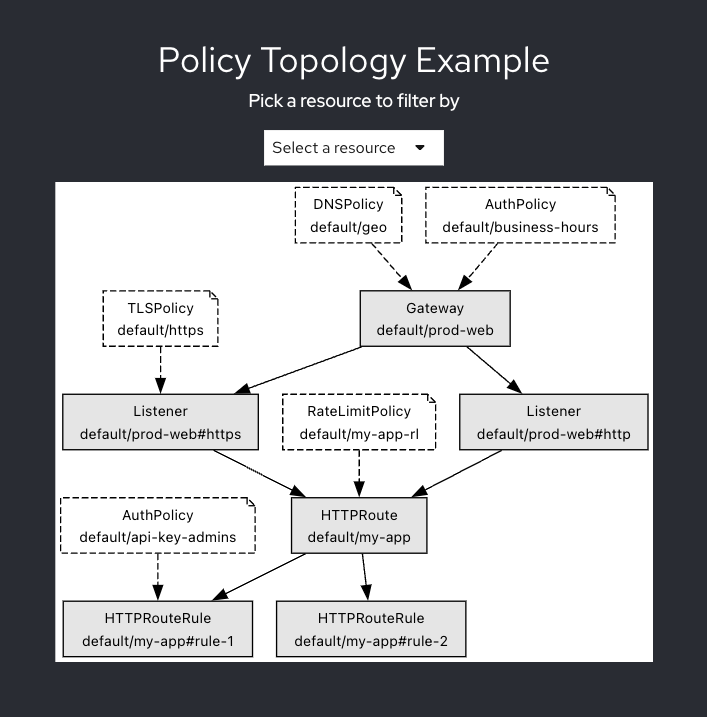
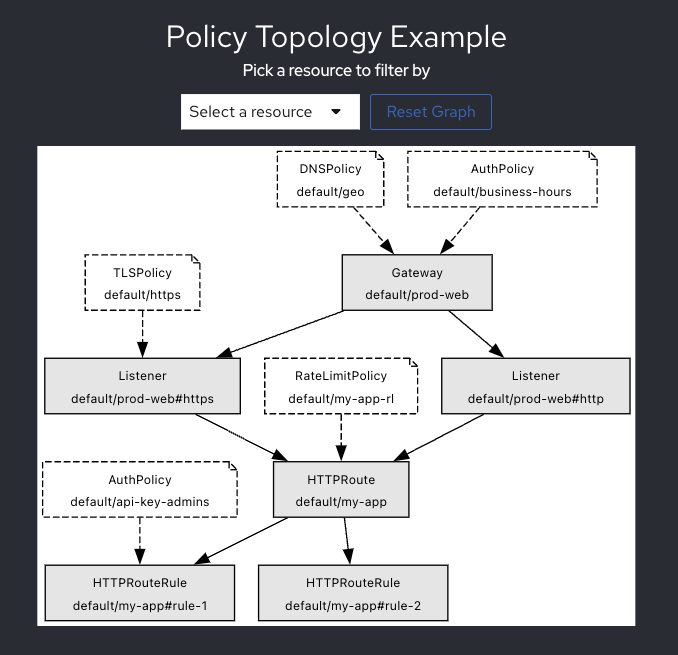
Clickable nodes for filtering

Changed region(s): [[0.031, 0.0305, 0.9602, 0.9771], [0.1239, 0.3969, 0.3097, 0.4885]]

diff --git a/src/PolicyTopology.js b/src/PolicyTopology.js
@@ -2,7 +2,8 @@ import React, { useEffect, useRef, useCallback, useState } from 'react';
 import { instance } from '@viz-js/viz';
 import graphlib from 'graphlib';
 import * as dot from 'graphlib-dot';
-import { Dropdown, DropdownToggle, DropdownItem, Title } from '@patternfly/react-core';
+import { Dropdown, DropdownToggle, DropdownItem, Title, Button } from '@patternfly/react-core';
+import './PolicyTopology.css'; // Ensure you import the CSS file
 
 const PolicyTopology = ({ dotString }) => {
   const containerRef = useRef(null);
@@ -43,7 +44,13 @@ const PolicyTopology = ({ dotString }) => {
       return;
     }
 
-    const selectedNodeLabel = graph.node(nodeId).label;
+    const selectedNode = graph.node(nodeId);
+    if (!selectedNode) {
+      console.error(`Selected node not found in graph. nodeId: ${nodeId}`);
+      return;
+    }
+
+    const selectedNodeLabel = selectedNode.label;
     setSelectedLabel(selectedNodeLabel);
 
     const filteredGraph = new graphlib.Graph();
@@ -85,14 +92,36 @@ const PolicyTopology = ({ dotString }) => {
     setIsDropdownOpen(isOpen);
   };
 
+  const handleNodeClick = (event) => {
+    const nodeElement = event.target.closest('g.node');
+    if (!nodeElement) {
+      console.error('No node element found');
+      return;
+    }
+    const nodeId = nodeElement.querySelector('title').textContent;
+    console.log(`Node clicked: ${nodeId}`);
+    handleNodeSelection(nodeId);
+  };
+
+  const resetGraph = () => {
+    setSelectedLabel('Select a resource');
+    setFilteredDot(dotString);
+  };
+
   useEffect(() => {
     if (containerRef.current && filteredDot) {
       instance().then(viz => {
         return viz.renderSVGElement(filteredDot);
       }).then(svgElement => {
         if (containerRef.current) {
-          containerRef.current.innerHTML = ''; // Clean up previous graph
+          containerRef.current.innerHTML = '';
           containerRef.current.appendChild(svgElement);
+
+          // Add click event listeners to nodes
+          const nodes = svgElement.querySelectorAll('g.node');
+          nodes.forEach(node => {
+            node.addEventListener('click', handleNodeClick);
+          });
         }
       }).catch(error => {
         console.error('Error rendering DOT file:', error);
@@ -102,15 +131,18 @@ const PolicyTopology = ({ dotString }) => {
 
   return (
     <div className="policy-topology">
-      <Title headingLevel="h2" size="lg" className="pf-m-lg">
+      <Title headingLevel="h3" size="md" className="pf-m-md">
         Pick a resource to filter by
       </Title>
-      <Dropdown
-        onSelect={() => setIsDropdownOpen(false)}
-        toggle={<DropdownToggle onToggle={onToggle}>{selectedLabel || 'Select a resource'}</DropdownToggle>}
-        isOpen={isDropdownOpen}
-        dropdownItems={dropdownItems}
-      />
+      <div className="dropdown-container">
+        <Dropdown
+          onSelect={() => setIsDropdownOpen(false)}
+          toggle={<DropdownToggle onToggle={onToggle}>{selectedLabel || 'Select a resource'}</DropdownToggle>}
+          isOpen={isDropdownOpen}
+          dropdownItems={dropdownItems}
+        />
+        <Button variant="secondary" onClick={resetGraph} style={{ marginLeft: '10px' }}>Reset Graph</Button>
+      </div>
       <div ref={containerRef} className="policy-topology-container" />
     </div>
   );

diff --git a/src/PolicyTopology.css b/src/PolicyTopology.css
@@ -4,3 +4,8 @@
     sans-serif;
   font-size: 0.3em;
 }
+
+.policy-topology-container g.node:hover polygon {
+  fill: #d3d3d3; /* Change the fill color on hover */
+  cursor: pointer; /* Change cursor to pointer on hover */
+}
